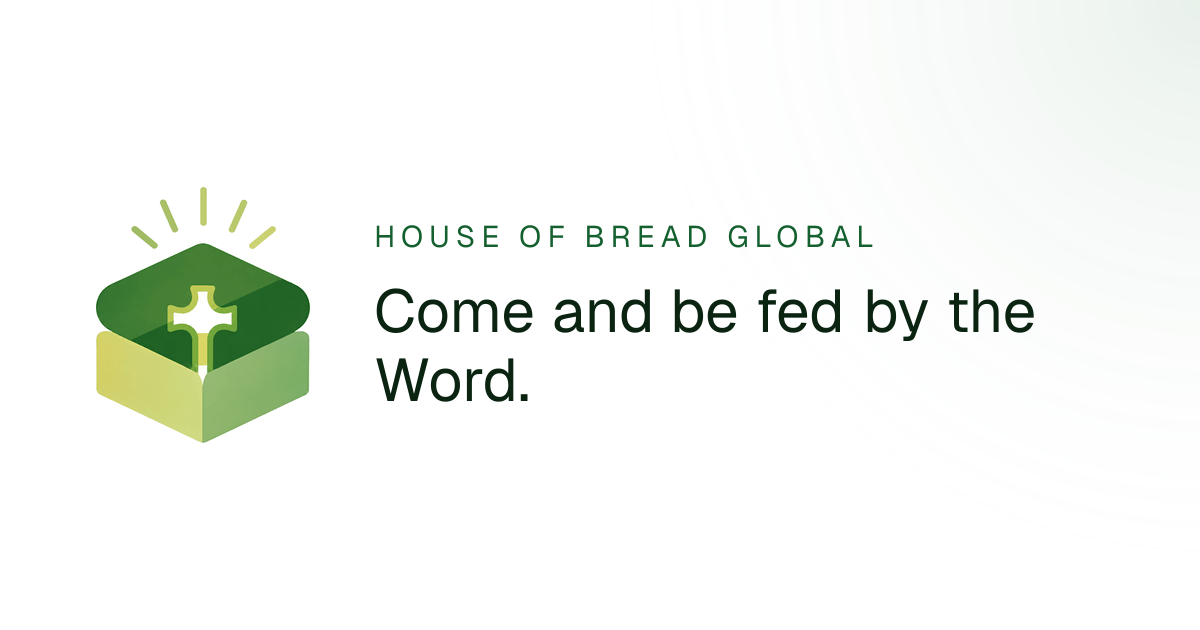
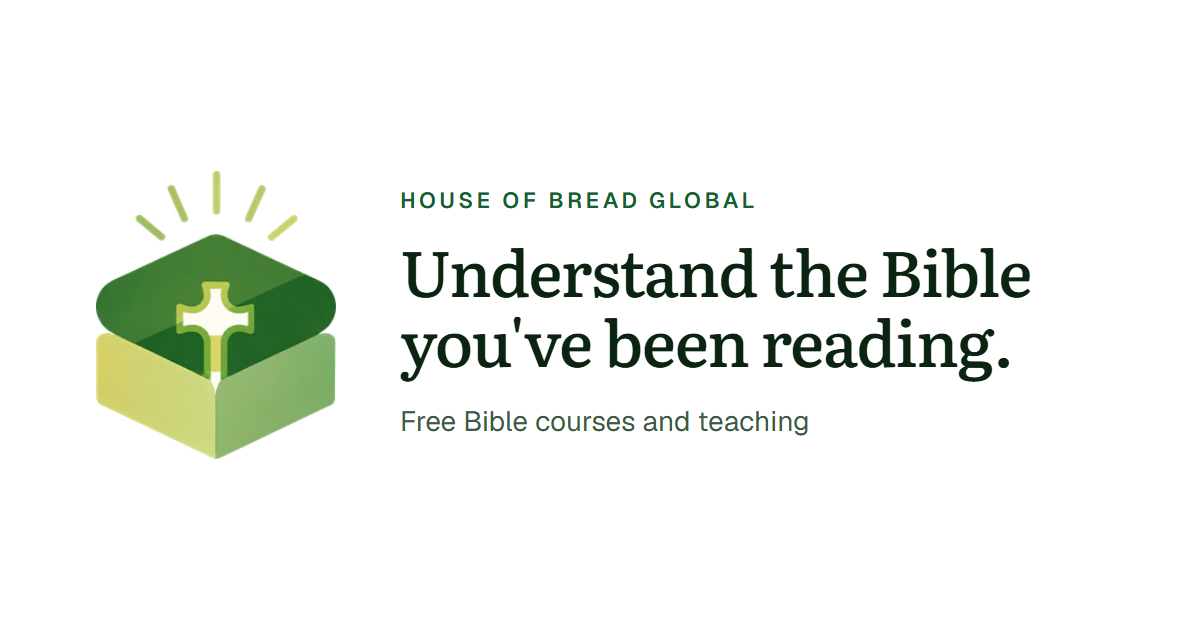
Match the share image and metadata to the new copy
The share image said "Come and be fed by the Word."; it now carries the
Home headline, built by scripts/og/build-og.mjs from the site's own fonts
and tokens. The site description is the Home subline. Written teachings
and the plans index get titles of their own (Teachings is /media).

diff --git a/lib/site-config.ts b/lib/site-config.ts
@@ -43,7 +43,7 @@ export const siteConfig = {
   name: "House of Bread Global",
   url: "https://hobglobal.online",
   description:
-    "A global teaching ministry serving believers across the UK, Africa and the United States. Live teaching, House of Bread Academy, written teaching, and the official House of Bread app.",
+    "Free courses and teaching that bring you into an accurate understanding of God's Word, and a real encounter with Him. A teaching ministry serving believers in the UK, Africa and the United States.",
   /**
    * Global noindex flag. While true, every page tells search engines not to
    * index or follow it. Flip to false only at launch, once placeholder copy

diff --git a/app/(marketing)/plans/page.tsx b/app/(marketing)/plans/page.tsx
@@ -9,7 +9,7 @@ import { journeySteps } from "@/lib/content/copy";
 import { placeholderPlans } from "@/lib/content/placeholder-data";
 
 export const metadata: Metadata = {
-  title: "New Testament journeys (reading plans)",
+  title: "Three journeys through the New Testament",
   description:
     "Three guided reading plans through the New Testament, in the order the books were written. 30, 60 and 90 day journeys in the official House of Bread app.",
 };

diff --git a/app/(marketing)/teachings/page.tsx b/app/(marketing)/teachings/page.tsx
@@ -11,7 +11,7 @@ import { getAll } from "@/lib/content";
 import { canonicalise } from "@/lib/scripture";
 
 export const metadata: Metadata = {
-  title: "Teachings",
+  title: "Written teachings",
   description:
     "Written teaching from House of Bread Global on doctrine, interpretation and the questions believers actually ask.",
 };
